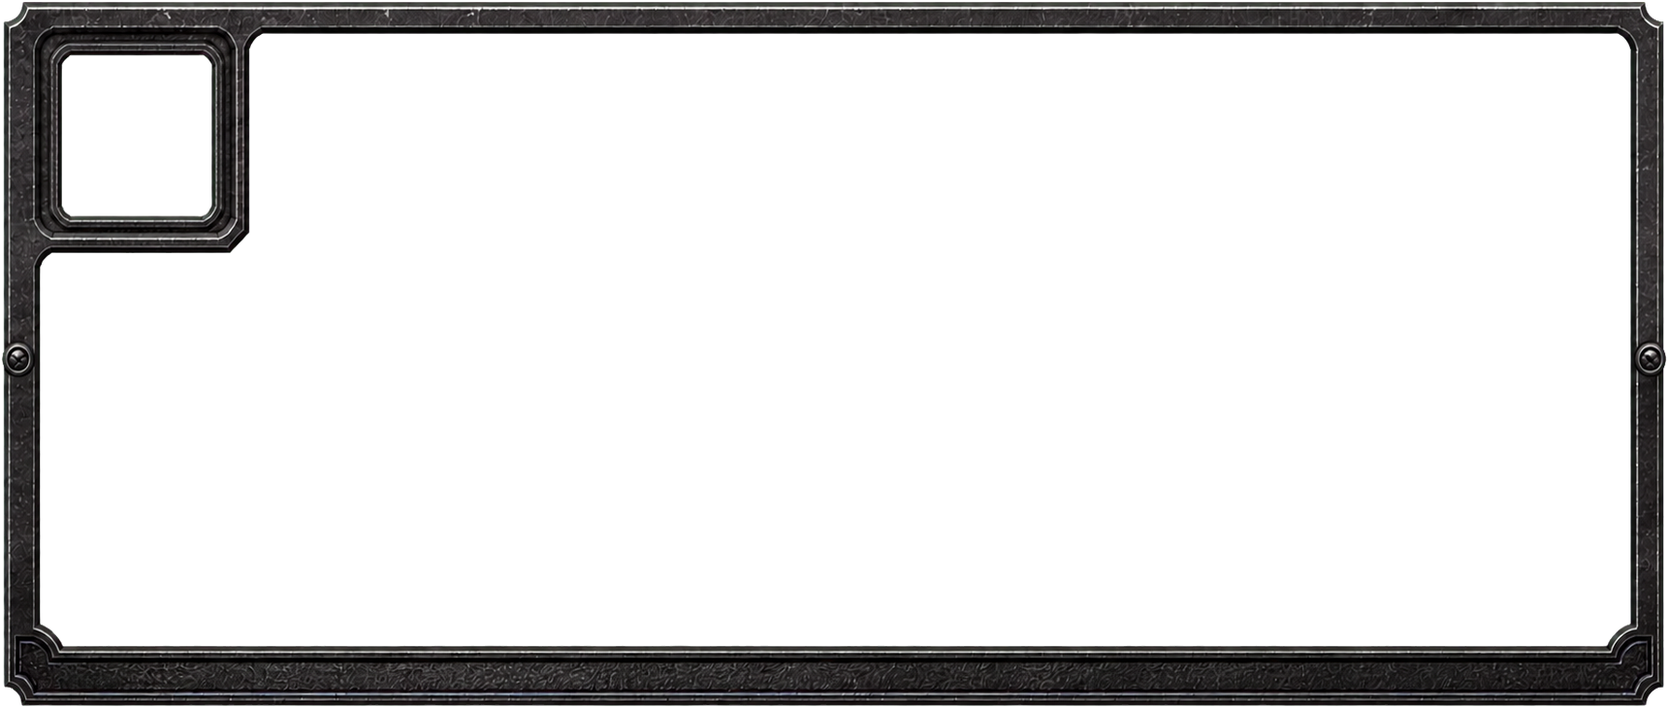
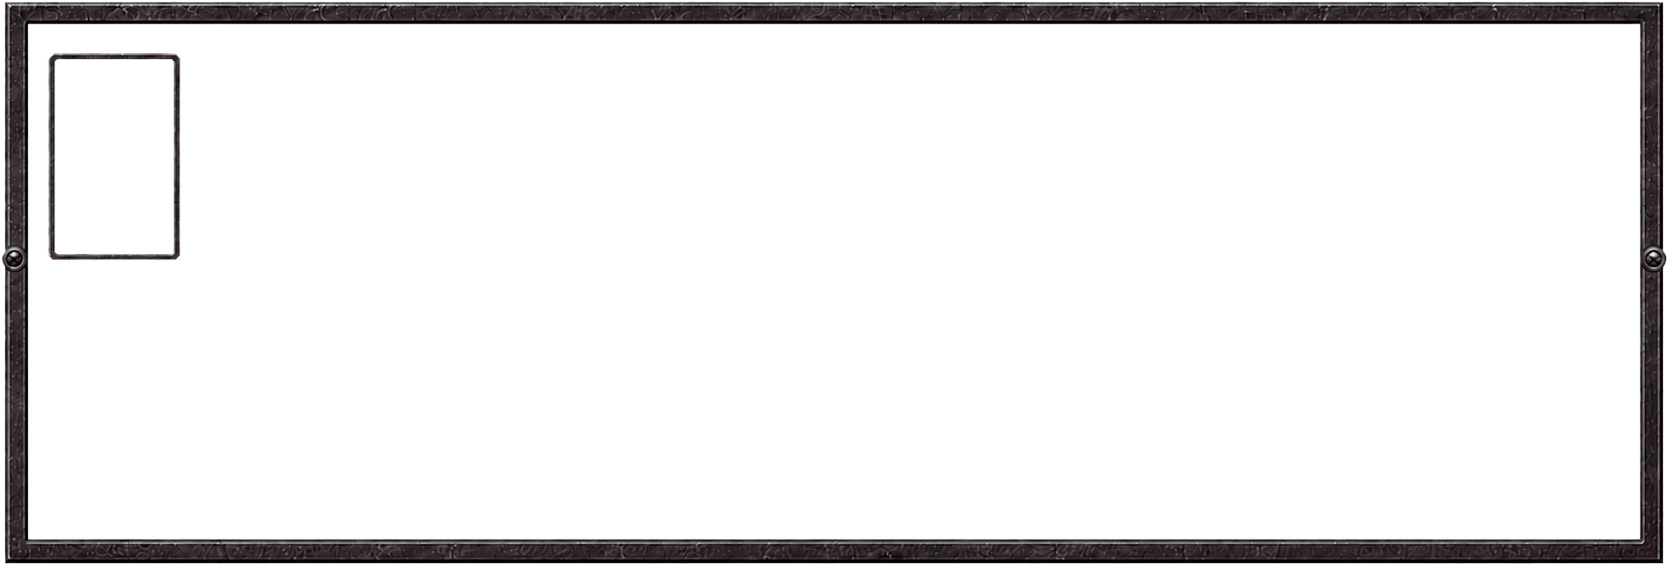
Refine dialogue frame geometry to match reference proportions

Changed region(s): [[0.0, 0.0, 1.0, 1.0]]

diff --git a/RainShadow Shared/Gameplay/Navigation/DialoguePanelLayout.swift b/RainShadow Shared/Gameplay/Navigation/DialoguePanelLayout.swift
@@ -33,7 +33,7 @@ struct DialoguePanelLayout: Equatable {
     /// Cap on panel height in points — fixed plaque (BG-style; does not grow for choices).
     /// Tall enough that a three-option multi-line response band fits without scrolling on
     /// typical desktop HUDs, while staying below the legacy near-fullscreen tall panel.
-    /// Aspect-locked (~2.36:1): height 400 → width ≈ 942 at lock.
+    /// Aspect-locked (~2.95:1): height 400 → width ≈ 1,180 at lock.
     static let panelHeightCap: CGFloat = 400
     /// Prior tall-panel height cap (pre character-visibility compact pass).
     static let legacyPanelHeightCap: CGFloat = 560
@@ -64,11 +64,11 @@ struct DialoguePanelLayout: Equatable {
     static let legacyHorizontalMarginMax: CGFloat = 40
 
     /// Inset of the text viewport from the panel bottom so body/choices clear the
-    /// slightly weightier leather-faced lower rail of the v05p dialogue frame.
-    static let contentInsetFromPanelBottom: CGFloat = 20
+    /// slim, reference-like lower rail of the v05q dialogue frame.
+    static let contentInsetFromPanelBottom: CGFloat = 16
 
-    /// Distance from panel top to the speaker name (under the slim v05p top rim).
-    static let speakerTopInset: CGFloat = 22
+    /// Distance from panel top to the speaker name (under the slim v05q top rim).
+    static let speakerTopInset: CGFloat = 20
     /// Vertical space reserved for the speaker name line (font + breathing room).
     static let speakerNameLineHeight: CGFloat = 22
     /// Gap between the speaker name and the dialogue body.
@@ -85,17 +85,17 @@ struct DialoguePanelLayout: Equatable {
     /// Extra slack under measured body text when snugging the choice band upward.
     static let bodyContentBottomSlack: CGFloat = 10
 
-    /// Outer metal rails on the uniformly scaled v05p frame.
-    /// Measured on `dialogue_outer_frame_overlay_v05` (1720×730): the transparent main
-    /// opening begins about 0.025 from the left and 0.05 from the top. Keep the black plate
-    /// **under** the metal (inset ~0.018) so it fills flush to the frame — larger insets
+    /// Outer metal rails on the uniformly scaled v05q frame.
+    /// Measured on `dialogue_outer_frame_overlay_v05` (1720×583): the transparent main
+    /// opening begins about 0.017 from the left and 0.043 from the top. Keep the black plate
+    /// **under** the metal so it fills flush to the frame — larger insets
     /// left a strip of scene bleed at the top of the well.
     /// The frame is drawn with **uniform scale** (no nine-slice) so the painted portrait
     /// window stays aligned with layout fractions — nine-slice fixed corners previously
     /// pushed the gold window right of the live portrait.
-    static let frameContentWellInsetXFraction: CGFloat = 0.018
-    static let frameContentWellInsetBottomFraction: CGFloat = 0.018
-    static let frameContentWellInsetTopFraction: CGFloat = 0.018
+    static let frameContentWellInsetXFraction: CGFloat = 0.010
+    static let frameContentWellInsetBottomFraction: CGFloat = 0.010
+    static let frameContentWellInsetTopFraction: CGFloat = 0.010
     /// Identity centerRect = stretch whole texture uniformly with `size`.
     static let frameNineSliceCenterRect = CGRect(x: 0, y: 0, width: 1, height: 1)
 
@@ -129,28 +129,37 @@ struct DialoguePanelLayout: Equatable {
         static let legacySpeakerFontSize: CGFloat = 22
     }
 
-    /// Painted frame pixel size (`dialogue_outer_frame_overlay_v05` 1720×730).
-    static let frameArtPixelSize = CGSize(width: 1_720, height: 730)
+    /// Painted frame pixel size (`dialogue_outer_frame_overlay_v05` 1720×583).
+    static let frameArtPixelSize = CGSize(width: 1_720, height: 583)
     /// Width / height of the shipped frame art — panel draw size must preserve this
     /// (no non-uniform squash of metal rails / portrait notch).
-    static let frameArtAspectWidthOverHeight: CGFloat = 1_720.0 / 730.0
+    static let frameArtAspectWidthOverHeight: CGFloat = 1_720.0 / 583.0
 
     /// Painted portrait **interior hole** on `dialogue_outer_frame_overlay_v05` (unit fractions
-    /// of the full 1720×730 texture). Measured from the transparent TL well (alpha punch):
-    /// x≈64…218, y≈58…222 — the metal bezel sits outside this rect and is drawn by the frame.
+    /// of the full 1720×583 texture). Measured from the transparent TL well (alpha punch).
     /// `process_ui_chrome_v03.process_dialogue` must punch the interior only (keep the rim).
     /// Valid only while the frame uses uniform scale (`frameNineSliceCenterRect` full).
-    static let portraitWindowLeftFraction: CGFloat = 0.0372
-    static let portraitWindowWidthFraction: CGFloat = 0.0895
-    static let portraitWindowTopFraction: CGFloat = 0.0795
-    static let portraitWindowHeightFraction: CGFloat = 0.2247
+    static let portraitWindowLeftFraction: CGFloat = 0.0331
+    static let portraitWindowWidthFraction: CGFloat = 0.0709
+    static let portraitWindowTopFraction: CGFloat = 0.1046
+    static let portraitWindowHeightFraction: CGFloat = 0.3448
     /// Hairline tuck under the bezel so the photo meets the metal with no black ring.
     /// Kept tiny — large insets left a visible gap between photo and frame.
     static let portraitInnerInset: CGFloat = 0.5
     /// Gap from portrait window’s right rail to the text column (must clear the bezel).
     static let portraitToTextGap: CGFloat = 14
     /// Main text well left edge on the art (right of the portrait bezel) as a floor.
-    static let textColumnMinLeftFraction: CGFloat = 0.185
+    static let textColumnMinLeftFraction: CGFloat = 0.155
+
+    /// Center crop a square portrait into the reference-like vertical photo aperture
+    /// without stretching the character's face.
+    static var portraitTextureCropRect: CGRect {
+        let displayedAspect = frameArtAspectWidthOverHeight
+            * portraitWindowWidthFraction
+            / portraitWindowHeightFraction
+        let width = min(1, max(0.01, displayedAspect))
+        return CGRect(x: (1 - width) / 2, y: 0, width: width, height: 1)
+    }
 
     /// Fallback HUD rail widths when a viewport is not available (tests / early layout).
     /// Prefer `HUDChromeLayout.leftRailClearance` / `rightRailClearance` when possible.
@@ -167,10 +176,10 @@ struct DialoguePanelLayout: Equatable {
     /// Choices may use most of the well when options are multi-line; body keeps a minimum strip.
     /// Sized so a three-option multi-line band fits without scrolling when the plaque
     /// reaches `panelHeightCap`; natural-height overflow still scrolls on tiny HUDs.
-    static let choiceBandMaxViewportFraction: CGFloat = 0.74
+    static let choiceBandMaxViewportFraction: CGFloat = 0.76
     /// Minimum height reserved for the prompt above the response list.
     /// The body has its own crop; kept modest so three choices can claim the well.
-    static let minBodyViewportHeight: CGFloat = 72
+    static let minBodyViewportHeight: CGFloat = 60
     /// Clear breathing room between Lila's body copy and its compact inline scrollbar.
     /// Palatino glyphs can overhang their measured advance slightly, so this includes
     /// enough safety space to remain visibly separate at large display scales.

diff --git a/Tests/RainShadowCoreTests/DialoguePanelLayoutTests.swift b/Tests/RainShadowCoreTests/DialoguePanelLayoutTests.swift
@@ -711,9 +711,9 @@ struct DialoguePanelLayoutTests {
     }
 
     @Test func contentWellCoversTextViewportInsidePanelNotOuterChrome() {
-        // The nearest edge of the v05 transparent main opening starts ~0.025 in.
+        // The nearest edge of the v05q transparent main opening starts ~0.017 in.
         // The black plate must sit under the rim so scene pixels never leak through.
-        let holeStart = 0.025 as CGFloat
+        let holeStart = 0.017 as CGFloat
         #expect(DialoguePanelLayout.frameContentWellInsetTopFraction < holeStart)
         #expect(DialoguePanelLayout.frameContentWellInsetBottomFraction < holeStart)
         #expect(DialoguePanelLayout.frameContentWellInsetXFraction < holeStart)

diff --git a/RainShadow Shared/UI/CaseIntroductionPresenter.swift b/RainShadow Shared/UI/CaseIntroductionPresenter.swift
@@ -983,8 +983,9 @@ final class CaseIntroductionPresenter: SKNode {
             portrait.colorBlendFactor = 1
             return
         }
-        texture.filteringMode = .linear
-        portrait.texture = texture
+        let cropped = SKTexture(rect: DialoguePanelLayout.portraitTextureCropRect, in: texture)
+        cropped.filteringMode = .linear
+        portrait.texture = cropped
         portrait.colorBlendFactor = 0
     }
 

diff --git a/ArtSource/Processing/process_ui_chrome_v03.py b/ArtSource/Processing/process_ui_chrome_v03.py
@@ -460,7 +460,7 @@ def crop_square_button(im: Image.Image) -> Image.Image:
     return trimmed.crop((0, 0, side, side))
 
 
-def _dialogue_v05p_keep_chrome(im: Image.Image) -> Image.Image:
+def _dialogue_v05_keep_chrome(im: Image.Image) -> Image.Image:
     """Clear fully transparent pixels while preserving the generated soft matte."""
     out = np.array(im.convert("RGBA"))
     transparent = out[:, :, 3] < 8
@@ -471,21 +471,21 @@ def _dialogue_v05p_keep_chrome(im: Image.Image) -> Image.Image:
 def process_dialogue() -> None:
     # Overlay contract: metal rails stay opaque; portrait window + text well are
     # transparent so live portrait + SKLabel body text show through (code owns both).
-    # V05 is rail-free on the right (no painted scrollbar channel) — continuous blank
-    # well; live scroll controls overlay that gutter when needed. The generated source
-    # already keys both live-content holes, so preserve its full blackened-steel / leather
-    # construction instead of reducing it to a synthetic uniform rim.
-    master = GEN / "Dialogue/dialogue_outer_frame_overlay_v05p_gen.png"
+    # V05q is rail-free on the right (no painted scrollbar channel) — continuous blank
+    # well; live scroll controls overlay that gutter when needed. Its low 2.95:1 runtime
+    # silhouette follows the supplied dialogue reference's geometry while the generated
+    # blackened-steel finish remains original RainShadow artwork.
+    master = GEN / "Dialogue/dialogue_outer_frame_overlay_v05q_gen.png"
     if not master.exists():
         master = copy_gen(
-            "dialogue_outer_frame_overlay_v05p_gen.png",
+            "dialogue_outer_frame_overlay_v05q_gen.png",
             master,
         )
-    keyed_master = GEN / "Dialogue/dialogue_outer_frame_overlay_v05_keyed.png"
+    keyed_master = GEN / "Dialogue/dialogue_outer_frame_overlay_v05q_keyed.png"
     keyed = Image.open(keyed_master) if keyed_master.exists() else chroma_key(Image.open(master))
     keyed = trim_alpha(keyed)
-    out = stretch_to_canvas(keyed, (1720, 730))
-    out = _dialogue_v05p_keep_chrome(out)
+    out = stretch_to_canvas(keyed, (1720, 583))
+    out = _dialogue_v05_keep_chrome(out)
     runtime = RUNTIME / "Dialogue/dialogue_outer_frame_overlay_v05.png"
     runtime.parent.mkdir(parents=True, exist_ok=True)
     out.save(runtime)

diff --git a/ArtSource/Prompts/GenerationLog.md b/ArtSource/Prompts/GenerationLog.md
@@ -99,7 +99,7 @@ All prompts use the supplied Baldur's Gate-era screenshots as style-analysis ref
 | Elias Vale dialogue portrait V1 | `exec-11ce63bf-3728-4b2c-9944-ac02778b252a.png` | `Generated/UI/Dialogue/dialogue_portrait_elias_vale_v01.png` | `Art/UI/Dialogue/dialogue_portrait_elias_vale_v01.png`, 512×512 | Elias paperdoll used as the identity anchor: receding hair, square bearded face, charcoal coat, cream shirt and loose red tie; original close portrait with noir office/rain lighting. |
 | Dialogue outer frame V1 | `exec-fad33972-84aa-48a7-af8c-ce3c2f4d0755.png` | `Generated/UI/Dialogue/dialogue_outer_frame_chroma_v01.png` plus transparent overlay | Superseded after in-engine QA | First ultra-wide gunmetal/oxblood frame included an integrated painted scroll rail. Nine-slicing visibly stretched that control, so V1 is retained only for provenance and is no longer bundled. |
 | Dialogue outer frame V2 | `exec-29920b13-9584-4676-a429-4c96ddaf9085.png` | `Generated/UI/Dialogue/dialogue_outer_frame_chroma_v02.png` plus transparent overlay | `Art/UI/Dialogue/dialogue_outer_frame_overlay_v02.png`, 1720×730 | Original rail-free blackened-gunmetal frame with compact oxblood corners, worn silver bevels and restrained Art Deco clasp. Straight rails are safe to nine-slice; the fixed-size code scroll control cannot distort. No text, portrait, button, franchise icon, or copied ornament. |
-| Dialogue outer frame V05 | Cursor Image Generator `dialogue_outer_frame_overlay_v05_gen.png` | `Generated/UI/Dialogue/dialogue_outer_frame_overlay_v05_gen.png` | `Art/UI/Dialogue/dialogue_outer_frame_overlay_v05.png`, 1720×730 | Rail-free noir plaque matching sidebar/inventory materials; BG dialogue layout weight only; **no painted scrollbar channel**; oxblood corners + brass mid tabs retained. Prompt: `Prompts/dialogue_outer_frame_noir_v05.md`. |
+| Dialogue outer frame V05q | Codex built-in Image Generator `dialogue_outer_frame_overlay_v05q_gen.png` | `Generated/UI/Dialogue/dialogue_outer_frame_overlay_v05q_gen.png` | `Art/UI/Dialogue/dialogue_outer_frame_overlay_v05.png`, 1720×583 | Reference-like low straight silhouette in original rain-scratched noir gunmetal; contained TL portrait bezel; **no painted scrollbar channel** or copied ornament. Prompt: `Prompts/dialogue_outer_frame_noir_v05.md`. |
 | Dialogue scrollbar V1 | `exec-9ee9d94b-f034-498d-ba61-1e5f6540f927.png` | `Generated/UI/Dialogue/Scrollbar/dialogue_scroll_components_{chroma,rgba}_v01.png` | Four independent `Art/UI/Dialogue/dialogue_scroll_*_v01.png` components | Strict 2×2 production sheet with up/down buttons, recessed track and proportional thumb; Mac OS 9 raised/recessed control hierarchy translated into the frame's blackened gunmetal, worn silver and restrained oxblood palette. The supplied Baldur's Gate screenshot informed only compact vertical placement and tactile weight; all component shapes and ornament are original. Uniform chroma green, no surrounding frame, text, portrait, copied iconography or watermark. |
 | Dialogue scrollbar Mac OS 9 V04 | Cursor Image Generator `dialogue_scroll_components_macos9_v04_gen.png` + grip thumb `dialogue_scroll_thumb_macos9_v04c_gen.png` | `Generated/UI/Dialogue/dialogue_scroll_components_macos9_v04_gen.png`, `dialogue_scroll_thumb_macos9_v04c_gen.png` | `Art/UI/Dialogue/dialogue_scroll_{up,down,track}_v04.png` | Exact Mac OS 9 Classic control shapes (square triangle buttons, recessed stippled track, Platinum rectangular scroll box with centered grip ridges) painted in RainShadow cold gunmetal. Prompt: `Prompts/dialogue_scrollbar_macos9_v04.md`. |
 | Dialogue scroll box + grip V06/V08 | Cursor Image Generator `dialogue_scroll_thumb_body_macos9_v05_gen.png`, `dialogue_scroll_thumb_grip_macos9_v06b_gen.png` | `Generated/UI/Dialogue/dialogue_scroll_thumb_body_macos9_v05_gen.png`, `dialogue_scroll_thumb_grip_macos9_v06b_gen.png` | `Art/UI/Dialogue/dialogue_scroll_thumb_v06.png` (64×160), `dialogue_scroll_thumb_grip_v08.png` (24×18) | Scroll box split into a plain nine-sliceable Platinum body plus the five grip ridges as a separate fixed-size overlay. `pixel_exact_grip()` keeps the brightest and darkest painted row of each generated ridge verbatim and stacks them at the runtime pitch, so the ridges survive at their real on-screen size instead of blurring when scaled. |
@@ -219,5 +219,5 @@ All prompts use the supplied Baldur's Gate-era screenshots as style-analysis ref
 - **Lila March hair / age / bust refresh V10 (2026-07-31):** Lila-only redo so the client reads younger and more attractive with **long straight dark brown hair** (beret dropped), a slightly fuller mid-century chest, and the same emerald swing coat / cream dress / dark gloves / handbag-left wardrobe. Built-in Image Generator produced SW identity key, SW arrival strip (8 walk + 1 idle), NE departure strip (8), and a refreshed dialogue portrait master under `Client/PreRendered3DV10/` + `Generated/UI/Dialogue/dialogue_portrait_lila_march_v01_master.png`. `process_pre_rendered_characters_v10.py` applies the approved V7 BGEE crunch with coat despill into `LilaArrival.atlas` (25 cells), installs NW departure as a no-recrunch horizontal flip of the approved NE cells, and Lanczos-installs `dialogue_portrait_lila_march_v01`. Prior V9 Lila runtime backed up under `RuntimeBackupLilaPreRendered3DV9`. Harlan Voss unchanged on V8. Prompt lock: `Prompts/character_prerendered_3d_v10.md`.
 - **Lila March dialogue portrait forehead speck fix V02 (2026-07-31):** the V10 portrait master had a stray dark oblong generation artifact on the forehead near the hairline that survived the first weak heal and could also stay stuck in Xcode DerivedData under the old `v01` filename. Rebuilt a stronger heal into `dialogue_portrait_lila_march_v02_master.png`, installed runtime `dialogue_portrait_lila_march_v02.png`, and retargeted `EmptyCoatCaseIntroduction` / `GameArt` preload / Xcode resources to the new ID so the bundle cannot keep serving a cached `v01`.
 - **Dialogue portrait-well punch fix (2026-07-31):** the forehead “dot” in dialogue was leftover opaque scrap in `dialogue_outer_frame_overlay_v04` compositing on top of the live portrait (`frameOverlay` z=10 over `portrait` z=3). Processor punch started at y=0.22 while `DialoguePanelLayout.portraitWindowTopFraction` opens the well at y=0.10, leaving mid-forehead floaters. Re-punched the layout-matched photo well (rim-safe inset), updated `process_ui_chrome_v03.process_dialogue`, and kept a pre-punch backup of the overlay.
-- **Dialogue outer frame V05 BG-hierarchy × noir replacement (2026-08-01):** the Codex built-in default Image Generator used the supplied Baldur's Gate dialogue only for its low-wide hierarchy, thin perimeter, compact upper-left portrait, and generous live-text opening. The shipped artwork is an original RainShadow design in aged blackened steel, rain-scratched gunmetal, cold pewter edge polish, and smoked leather, with restrained 1940s utility Art Deco construction and no copied ornament, fantasy jewelry, painted scrollbar, text, portrait, or baked control. Border-sampled soft-matte removal + despill produced `dialogue_outer_frame_overlay_v05_keyed.png`; processing preserves the generated silhouette and aligns `DialoguePanelLayout` to the measured portrait hole before shipping `dialogue_outer_frame_overlay_v05.png` at 1720×730. Prompt: `Prompts/dialogue_outer_frame_noir_v05.md`.
+- **Dialogue outer frame V05q reference-shape correction (2026-08-01):** after review found the first noir pass too tall and structurally different, the Codex built-in default Image Generator kept the approved blackened-steel material while moving the silhouette substantially closer to the supplied reference: approximately 3:1, straight uniform rails, near-square corners, no heavy lower band, no projecting portrait housing, a contained vertical TL portrait bezel, and two tiny side fasteners. Border-sampled soft-matte removal, despill, and one-pixel edge contraction produced `dialogue_outer_frame_overlay_v05q_keyed.png`; runtime now ships the low 1720×583 frame, aligns to the measured portrait hole, and center-crops square portraits into the vertical aperture. No copied ornament, fantasy jewelry, painted scrollbar, text, portrait, or baked control. Prompt: `Prompts/dialogue_outer_frame_noir_v05.md`.
 - **Dialogue command button V04 matching replacement (2026-08-01):** generated a matching blackened-steel / smoked-leather CONTINUE/END plate with rain scratches, shallow clipped-corner bevels, and an empty face for the live label. Border-sampled soft-matte removal feeds the texture-preserving processor and ships `dialogue_command_button_plate_v04.png` at 512×128. Prompt: `Prompts/dialogue_command_button_noir_v04.md`.

diff --git a/ArtSource/Prompts/dialogue_outer_frame_noir_v05.md b/ArtSource/Prompts/dialogue_outer_frame_noir_v05.md
@@ -2,8 +2,8 @@
 
 Date: 2026-08-01  
 Generator: Codex built-in default Image Generator  
-Approved master: `dialogue_outer_frame_overlay_v05p_gen.png`  
-Soft-matte source: `dialogue_outer_frame_overlay_v05_keyed.png`
+Approved master: `dialogue_outer_frame_overlay_v05q_gen.png`
+Soft-matte source: `dialogue_outer_frame_overlay_v05q_keyed.png`
 
 ## Intent
 
@@ -14,11 +14,11 @@ Soft-matte source: `dialogue_outer_frame_overlay_v05_keyed.png`
 
 ## Final generator prompt set
 
-### Base generation
+### Initial base generation (superseded geometry)
 
 ```text
 Use case: ui-mockup
-Asset type: production 2D game UI artwork — a single dialogue-panel frame overlay for RainShadow, eventually processed to 1720×730.
+Asset type: production 2D game UI artwork — a single dialogue-panel frame overlay for RainShadow, initially processed to 1720×730 before the final shape correction.
 Primary request: Create a brand-new original film-noir dialogue plaque. It should preserve the readable late-1990s isometric-RPG hierarchy of a low wide rectangular conversation panel with a compact portrait well at the upper left, while clearly belonging to a 1940s private-detective noir game. Do not copy any franchise-specific ornament or exact frame shape.
 Input images:
 - Image 1: layout-and-weight reference only. Use only the low wide proportion, thin rugged perimeter, compact upper-left portrait placement, and generous text well. Do not reproduce its ornament, jewel, scrollbar, portrait, text, or exact silhouette.
@@ -34,7 +34,7 @@ Constraints: frame must be fully isolated from the key color with crisp edges an
 Avoid: people, faces, portraits, letters, numbers, labels, icons, scrollbar controls, gems, magic, swords, shields, skulls, gargoyles, Celtic knots, medieval filigree, fantasy jewelry, gold trim, brass-heavy steampunk, ornate Gothic arches, bulky top crowns, large decorative emblems, copied franchise shapes, watermarks, cast shadows, contact shadows.
 ```
 
-### Approved proportion refinement
+### Intermediate proportion refinement (superseded geometry)
 
 ```text
 Use case: precise-object-edit
@@ -54,6 +54,17 @@ Avoid: changing the overall design, changing the aspect ratio, cropping any part
 
 The default generator source is chroma-keyed with the imagegen skill's border-sampled soft matte and despill helper, then trimmed and stretched into:
 
-`RainShadow Shared/Resources/Art/UI/Dialogue/dialogue_outer_frame_overlay_v05.png` — 1720×730 RGBA.
+`RainShadow Shared/Resources/Art/UI/Dialogue/dialogue_outer_frame_overlay_v05.png` — 1720×583 RGBA.
 
-The shipped transparent portrait hole measures approximately x=0.0372, y-from-top=0.0795, width=0.0895, height=0.2247. `DialoguePanelLayout` uses the same fractions.
+The reference-shape follow-up replaced the earlier 2.36:1 plaque with a 2.95:1 runtime silhouette: straight uniform rails, near-square corners, no heavy lower band, no projecting portrait housing, and a narrow vertical portrait bezel contained inside the outer rectangle. The shipped portrait hole measures approximately x=0.0331, y-from-top=0.1046, width=0.0709, height=0.3448. `DialoguePanelLayout` uses those measured fractions and center-crops square portrait art into the vertical aperture without face distortion.
+
+## Final net shape prompt
+
+```text
+Use case: precise-object-edit
+Asset type: production 2D game UI dialogue-frame overlay.
+Preserve RainShadow's original noir materials: blackened nickel, rain-scratched gunmetal, smoked charcoal, cold pewter edge highlights, shallow top-left bevel lighting, and restrained practical 1940s construction.
+Use the supplied Baldur's Gate dialogue only as a shape-and-proportion reference. Create a low, wide rectangular silhouette close to 3:1 with straight continuous rails, nearly square worn miters, uniformly slim top/bottom/side edges, two tiny mid-edge fasteners, and one large uninterrupted transparent dialogue opening. Remove the thick leather bottom band, pointed/chamfered peaks, and projecting portrait housing.
+Place one thin vertical portrait bezel fully inside the upper-left of the continuous rectangle. It must not alter the outer silhouette or protrude into the content area. Leave the right side clear for code-drawn scrollbar controls.
+All areas outside the frame, inside the main opening, and inside the portrait hole must be perfectly flat uniform #00ff00 for removal. No text, portrait, face, label, icon, scrollbar part, jewel, fantasy ornament, gold, copied franchise detail, watermark, shadow, or reflection.
+```

diff --git a/Documentation/AssetManifest.md b/Documentation/AssetManifest.md
@@ -326,7 +326,7 @@ UI is original RainShadow art following Infinity Engine **layout hierarchy** wit
 | P0 | `hud_action_*_v03` | 12 | 128×128 | Painted noir action icons: menu, map, journal, inventory, character, leads, contacts, settings, rest, help, hide-ui, clock. Hover/pressed via code tint; disabled uses alpha. |
 | P0 | `hud_party_*_v03` | 3 | 128×128 | Painted party utilities: search, lantern, select-party (stubs). |
 | P0 | `hud_portrait_frame_v03` | 1 | 1086×1448 | Transparent portrait bezel matching v03 rail language; code owns HP text and condition tint. |
-| P0 | `dialogue_outer_frame_overlay_v05` | 1 | 1720×730 | Original BG-hierarchy × noir dialogue plaque in blackened steel and smoked leather; compact TL portrait bezel; **transparent** text well + portrait window; **no painted scrollbar channel**. |
+| P0 | `dialogue_outer_frame_overlay_v05` | 1 | 1720×583 | Original noir plaque using the reference's low straight rectangular hierarchy: thin uniform blackened-steel rails, near-square corners, contained TL portrait bezel, **transparent** text well + portrait window, and **no painted scrollbar channel**. |
 | P0 | `dialogue_command_button_plate_v04` | 1 | 512×128 | Matching rain-scratched noir END/CONTINUE command plate with an empty leather face; code draws label. |
 | P0 | `dialogue_scroll_{up,down,up_pressed,down_pressed}_v06`, `dialogue_scroll_box_v06`, `dialogue_scroll_area_v06`, `dialogue_scroll_area_solid_v06` | 7 | 96×96 / 96×96 / 30×1024 | Exact Apple System 7 scrollbar grammar in RainShadow gunmetal: outlined arrowhead + stem handle (not Platinum solid triangles), fixed square scroll box, pixel-exact dithered gray area (solid when disabled), pressed arrow art, flush assembly, no grip ridges, no hover. |
 | P0 | `dialogue_portrait_lila_march_v02` | 1 | 512×512 | Identity-locked hand-painted Lila March portrait for the dialogue crop (v02 clears a forehead generation speck). |

diff --git a/ArtSource/Prompts/ui_chrome_v03.md b/ArtSource/Prompts/ui_chrome_v03.md
@@ -41,7 +41,7 @@ Approve this before mass regeneration.
 
 | ID | Canvas | Notes |
 |---|---|---|
-| `dialogue_outer_frame_overlay_v05` | 1720×730 | Low wide blackened-steel / smoked-leather plaque; compact portrait window TL; transparent live-content well; **no** painted scrollbar channel |
+| `dialogue_outer_frame_overlay_v05` | 1720×583 | Reference-like low straight rectangle in blackened steel; thin uniform rails; inset vertical portrait window TL; transparent live-content well; **no** painted scrollbar channel |
 | `dialogue_command_button_plate_v04` | 512×128 | Empty rain-scratched noir END/CONTINUE plate with live-label leather face |
 | `dialogue_scroll_components_v03` | 2×2 sheet | up, down, track, thumb (oxblood/amber diamond thumb) |
 
